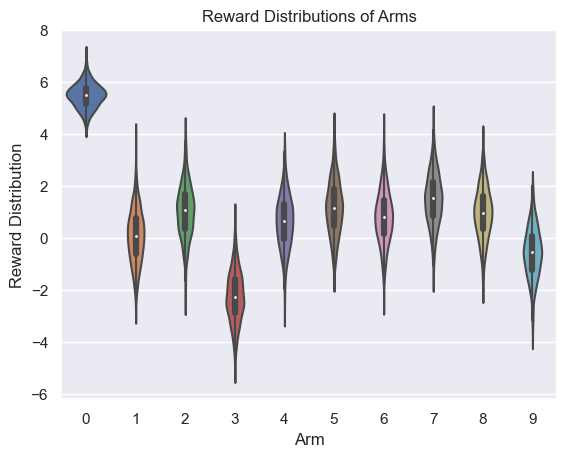
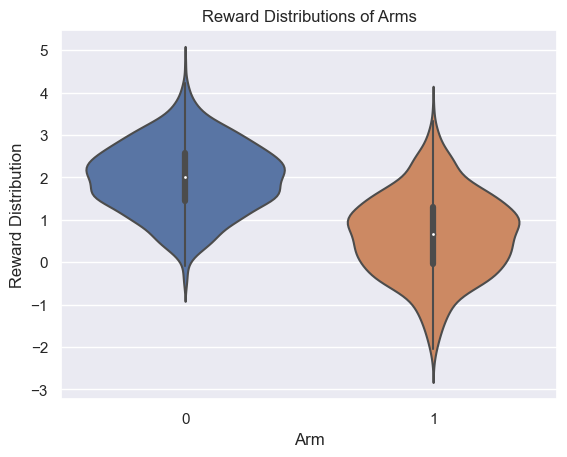
Fixed behavior of shifting parameter Arms

diff --git a/rl_envs_forge/envs/k_armed_bandit/k_armed_bandit.py b/rl_envs_forge/envs/k_armed_bandit/k_armed_bandit.py
@@ -42,7 +42,12 @@ class Arm:
             raise ValueError(
                 f"Invalid distribution: {self.distribution}. Please use one of {self.IMPLEMENTED_DISTRIBUTIONS}."
             )
-        self.params = kwargs
+        self.init_params = (
+            kwargs.copy()
+        )  # keep a copy of the initial params for updating
+        self.current_params = (
+            kwargs.copy()
+        )  # these are the actual params used for sampling
         self.param_functions = param_functions if param_functions else []
 
     def update_param(self, timestep: int):
@@ -54,8 +59,8 @@ class Arm:
         """
         for func_dict in self.param_functions:
             shift_value = func_dict["function"](timestep)
-            self.params[func_dict["target_param"]] = (
-                self.params[func_dict["target_param"]] + shift_value
+            self.current_params[func_dict["target_param"]] = (
+                self.init_params[func_dict["target_param"]] + shift_value
             )
 
     def sample(self, np_random) -> float:
@@ -69,22 +74,22 @@ class Arm:
             float: The sampled reward.
         """
         if self.distribution == "normal":
-            mean = self.params.get("mean", 0)
-            std = self.params.get("std", 1)
+            mean = self.current_params.get("mean", 0)
+            std = self.current_params.get("std", 1)
             return np_random.normal(mean, std)
 
         elif self.distribution == "uniform":
-            low = self.params.get("low", 0)
-            high = self.params.get("high", 1)
+            low = self.current_params.get("low", 0)
+            high = self.current_params.get("high", 1)
             return np_random.uniform(low, high)
 
         elif self.distribution == "exponential":
-            scale = self.params.get("scale", 1)
+            scale = self.current_params.get("scale", 1)
             return np_random.exponential(scale)
 
         elif self.distribution == "gamma":
-            shape = self.params.get("shape")
-            scale = self.params.get("scale")
+            shape = self.current_params.get("shape")
+            scale = self.current_params.get("scale")
             if shape is None or scale is None:
                 raise ValueError(
                     "For gamma distribution, both 'shape' and 'scale' params are required."
@@ -92,8 +97,8 @@ class Arm:
             return np_random.gamma(shape, scale)
 
         elif self.distribution == "beta":
-            a = self.params.get("a")
-            b = self.params.get("b")
+            a = self.current_params.get("a")
+            b = self.current_params.get("b")
             if a is None or b is None:
                 raise ValueError(
                     "For beta distribution, both 'a' and 'b' params are required."
@@ -101,19 +106,19 @@ class Arm:
             return np_random.beta(a, b)
 
         elif self.distribution == "logistic":
-            loc = self.params.get("loc", 0)
-            scale = self.params.get("scale", 1)
+            loc = self.current_params.get("loc", 0)
+            scale = self.current_params.get("scale", 1)
             return np_random.logistic(loc, scale)
 
         elif self.distribution == "weibull":
-            a = self.params.get("a")
+            a = self.current_params.get("a")
             if a is None:
                 raise ValueError("For weibull distribution, 'a' param is required.")
             return np_random.weibull(a)
 
         elif self.distribution == "lognormal":
-            mean = self.params.get("mean", 0)
-            sigma = self.params.get("sigma", 1)
+            mean = self.current_params.get("mean", 0)
+            sigma = self.current_params.get("sigma", 1)
             return np_random.lognormal(mean, sigma)
 
 
@@ -249,7 +254,7 @@ class KArmedBandit(gym.Env):
         for i, arm in enumerate(self.arms):
             print(f"Arm {i}:")
             print(f"\tDistribution: {arm.distribution.capitalize()}")
-            for param, value in arm.params.items():
+            for param, value in arm.current_params.items():
                 print(f"\t{param.capitalize()}: {value:.2f}")
             print("-" * 30)
 
@@ -260,7 +265,7 @@ class KArmedBandit(gym.Env):
         For this simple environment, there's nothing to close, but it's added for API consistency.
         """
         pass
-    
+
     @property
     def state(self):
         """
@@ -269,5 +274,5 @@ class KArmedBandit(gym.Env):
         Returns:
             tuple: (current timestep, list of current parameters for all arms)
         """
-        arm_parameters = [arm.params for arm in self.arms]
+        arm_parameters = [arm.current_params for arm in self.arms]
         return self.timestep, arm_parameters

diff --git a/rl_envs_forge/envs/labyrinth/README.md b/rl_envs_forge/envs/labyrinth/README.md
@@ -91,7 +91,7 @@ env.human_play(print_info=True, animate=True)
 
 <table>
 <tr>
-    <th colspan="1">Corridor algorithm: prim</th>
+    <th colspan="3">Corridor algorithm: prim</th>
 </tr>
 <tr>
     <th colspan="1">post_process:False, grid_connect:False</th>
@@ -111,7 +111,7 @@ env.human_play(print_info=True, animate=True)
 </tr>
 
 <tr>
-    <th colspan="1">Corridor algorithm: astar</th>
+    <th colspan="2">Corridor algorithm: astar</th>
 </tr>
 <tr>
     <th colspan="1">sort_access_points:False</th>
@@ -127,7 +127,7 @@ env.human_play(print_info=True, animate=True)
 </tr>
 
 <tr>
-    <th colspan="1">Corridor algorithm: gbfs</th>
+    <th colspan="2">Corridor algorithm: gbfs</th>
 </tr>
 <tr>
     <th colspan="1">sort_access_points:False</th>

diff --git a/rl_envs_forge/envs/k_armed_bandit/README.md b/rl_envs_forge/envs/k_armed_bandit/README.md
@@ -87,10 +87,10 @@ arm_params = {
     }
 }
 
-custom_bandit = KArmedBandit(k=10, arm_params=arm_params)
+custom_bandit = KArmedBandit(k=2, arm_params=arm_params)
 custom_bandit.render()
 
-for timestep in range(10):
+for timestep in range(20):
     custom_bandit.step(1)
     
 custom_bandit.render()

diff --git a/CHANGELOG.md b/CHANGELOG.md
@@ -9,6 +9,10 @@ and this project adheres to [Semantic Versioning](https://semver.org/spec/v2.0.0
 
 ## [1.5.0] - 2023.10.20
 
+### Fixed
+
+- Fixed a behavior of the shifting parameters in the Arms of the Bandit
+
 ### Added
 
 - KArmedBandit environment 
